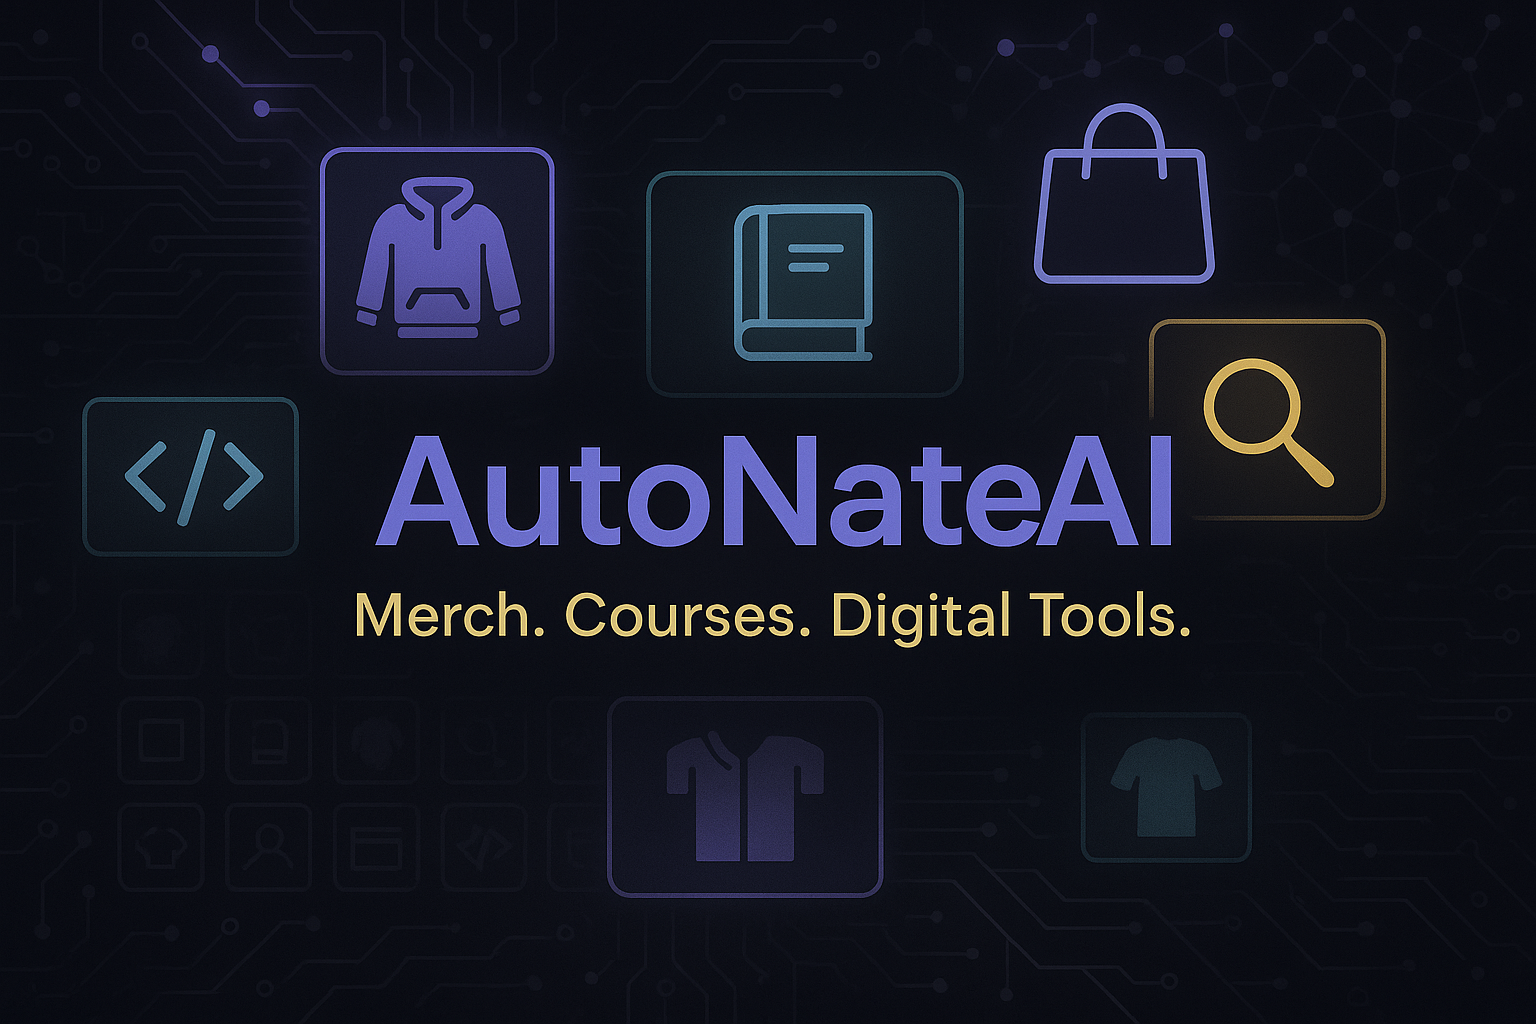
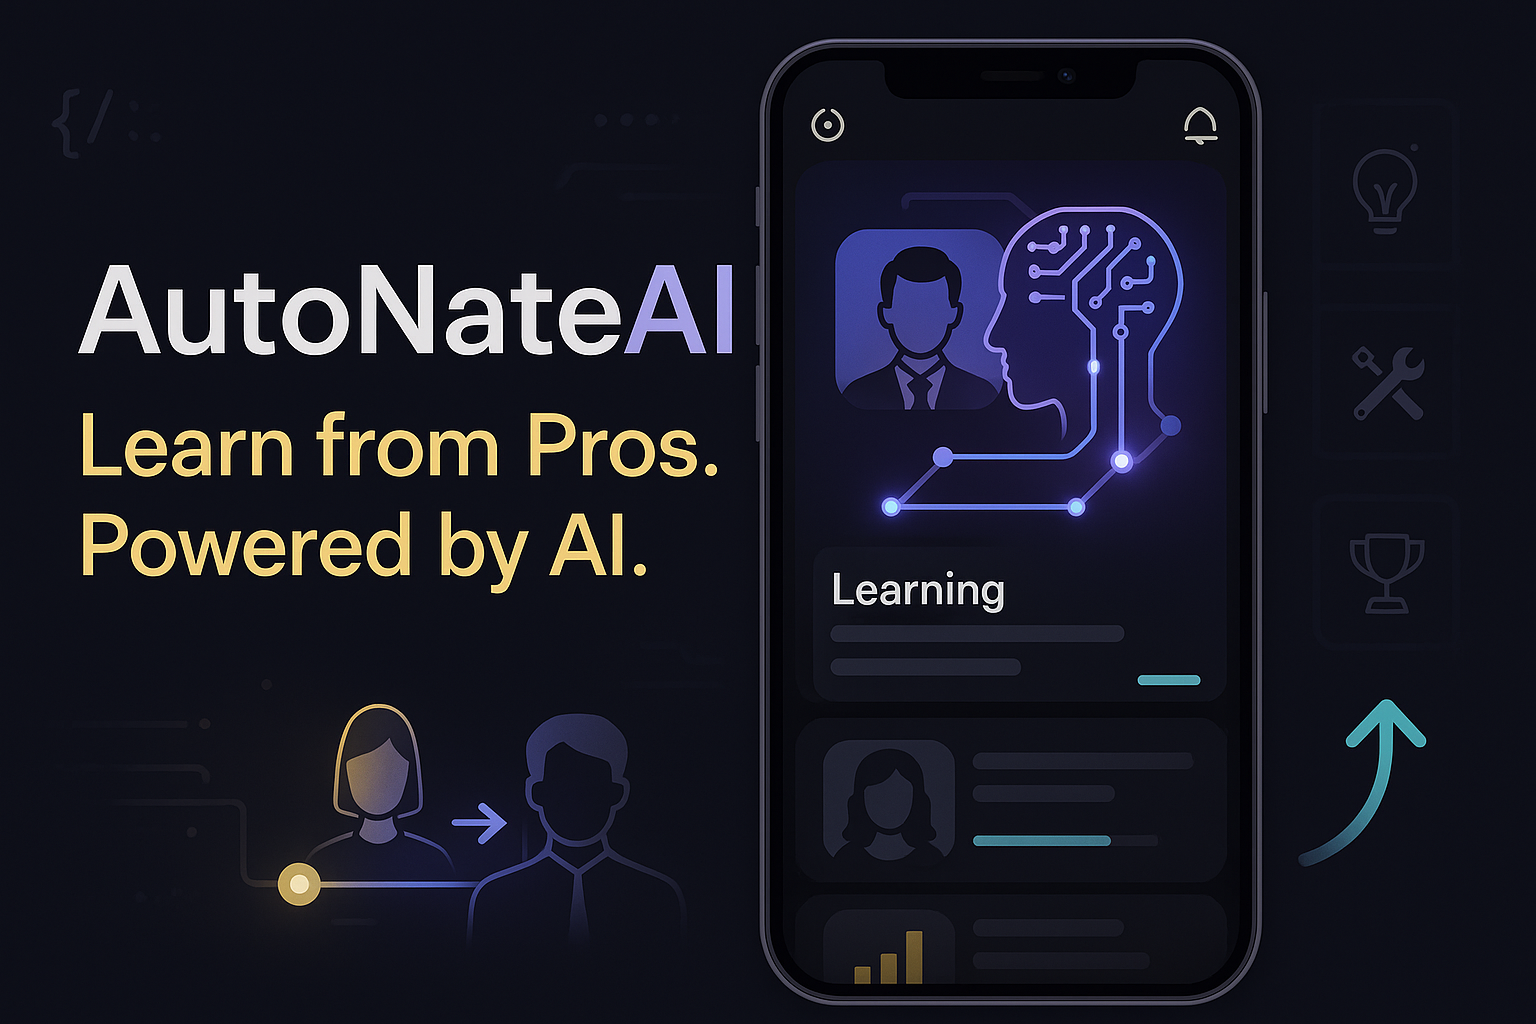
feat: update copy and OG image for Scroll Courses + AI-from-pros positioning
Rewrite landing page manifesto, hero, courses section, testimonial,
member perks, and meta tags to reflect Scroll Courses powered by AI
agents built from real LinkedIn professionals. Regenerate OG image
with feed/pro-to-AI concept. Update footer brand description.

diff --git a/courses/index.html b/courses/index.html
@@ -5,22 +5,22 @@
   <meta name="viewport" content="width=device-width, initial-scale=1.0">
 
   <!-- Primary Meta Tags -->
-  <title>AutoNateAI - Merch, Courses & Digital Tools for Builders</title>
-  <meta name="title" content="AutoNateAI - Merch, Courses & Digital Tools for Builders">
-  <meta name="description" content="Premium AI-inspired streetwear, developer courses, and starter packs. Engineer your future. Wear the code. We Bot dat life.">
+  <title>AutoNateAI - Digital Tools, Scroll Courses & Tech Gear</title>
+  <meta name="title" content="AutoNateAI - Digital Tools, Scroll Courses & Tech Gear">
+  <meta name="description" content="Your digital tech shop. Scroll Courses powered by AI agents built from real LinkedIn professionals. Digital tools and tech gear for builders. We Bot dat life.">
 
   <!-- Open Graph / Facebook -->
   <meta property="og:type" content="website">
   <meta property="og:url" content="https://autonateai.com/">
-  <meta property="og:title" content="AutoNateAI - Merch, Courses & Digital Tools for Builders">
-  <meta property="og:description" content="Premium AI-inspired streetwear, developer courses, and starter packs for builders and innovators.">
+  <meta property="og:title" content="AutoNateAI - Digital Tools, Scroll Courses & Tech Gear">
+  <meta property="og:description" content="Scroll Courses powered by real pros. AI agents, digital tools, and tech gear for builders.">
   <meta property="og:image" content="assets/og-homepage.png">
 
   <!-- Twitter -->
   <meta property="twitter:card" content="summary_large_image">
   <meta property="twitter:url" content="https://autonateai.com/">
-  <meta property="twitter:title" content="AutoNateAI - Merch, Courses & Digital Tools for Builders">
-  <meta property="twitter:description" content="Premium AI-inspired streetwear, developer courses, and starter packs for builders and innovators.">
+  <meta property="twitter:title" content="AutoNateAI - Digital Tools, Scroll Courses & Tech Gear">
+  <meta property="twitter:description" content="Scroll Courses powered by real pros. AI agents, digital tools, and tech gear for builders.">
   <meta property="twitter:image" content="assets/og-homepage.png">
 
   <!-- Favicon -->
@@ -113,13 +113,13 @@
       </div>
       <div class="manifesto-glow"></div>
       <div class="manifesto-container">
-        <p class="manifesto-lead" data-i18n="shop.manifesto_lead">We Don't Follow The Future.</p>
-        <h2 class="manifesto-headline" data-i18n="shop.manifesto_headline">We Build It.</h2>
+        <p class="manifesto-lead" data-i18n="shop.manifesto_lead">Learn by Scrolling. Build by Doing.</p>
+        <h2 class="manifesto-headline" data-i18n="shop.manifesto_headline">Your Digital Tech Shop.</h2>
         <div class="manifesto-body">
-          <p data-i18n="shop.manifesto_p1">AI isn't hype. It's power.</p>
-          <p data-i18n-html="shop.manifesto_p2">For the coders. The creators.<br>The women rewriting the rules.<br>The builders who stay up when others log off.</p>
-          <p data-i18n-html="shop.manifesto_p3">AutoNateAI is more than apparel.<br>It's a uniform for the next era.</p>
-          <p data-i18n-html="shop.manifesto_p4">You don't just wear it. <span class="manifesto-bold">You represent it.</span></p>
+          <p data-i18n="shop.manifesto_p1">Scroll Courses powered by real professionals.</p>
+          <p data-i18n-html="shop.manifesto_p2">AI agents built from LinkedIn pros who are too busy winning to teach.<br>Their knowledge. Their process. Their results.<br>Delivered to your feed.</p>
+          <p data-i18n-html="shop.manifesto_p3">This isn't another course platform.<br>It's how builders actually learn now.</p>
+          <p data-i18n-html="shop.manifesto_p4">Real expertise. AI-delivered. <span class="manifesto-bold">All in one scroll.</span></p>
         </div>
         <p class="manifesto-tagline" data-i18n="shop.manifesto_tagline">We Bot Dat Life.</p>
       </div>
@@ -135,10 +135,10 @@
       <div class="shop-hero-container">
         <div class="shop-hero-text">
           <h1 class="shop-hero-title">
-            <span data-i18n="shop.hero_line1">ENGINEER YOUR FUTURE.</span><br>
-            <span class="hero-accent" data-i18n="shop.hero_line2">WEAR THE CODE.</span>
+            <span data-i18n="shop.hero_line1">TOOLS. COURSES. GEAR.</span><br>
+            <span class="hero-accent" data-i18n="shop.hero_line2">BUILT FOR BUILDERS.</span>
           </h1>
-          <p class="shop-hero-subtitle" data-i18n="shop.hero_subtitle">Premium AI-inspired streetwear for builders and innovators.</p>
+          <p class="shop-hero-subtitle" data-i18n="shop.hero_subtitle">Scroll Courses built from real pros. Digital tools. Tech gear. Everything you need to level up.</p>
           <div class="shop-hero-ctas">
             <a href="#products" class="btn btn-primary btn-lg" data-i18n="shop.shop_now">SHOP NOW</a>
             <a href="#courses" class="btn btn-secondary btn-lg" data-i18n="shop.explore_collections">EXPLORE COLLECTIONS</a>
@@ -203,9 +203,9 @@
   <section class="courses-section" id="courses">
     <div class="section-container">
       <div class="section-header">
-        <span class="section-badge" data-i18n="shop.learn_build">LEARN &amp; BUILD</span>
-        <h2 class="section-title" data-i18n="shop.level_up">Level Up Your Skills</h2>
-        <p class="section-subtitle" data-i18n="shop.level_up_desc">From complete beginner to senior engineer. AI-augmented courses with real-world projects.</p>
+        <span class="section-badge" data-i18n="shop.learn_build">SCROLL COURSES</span>
+        <h2 class="section-title" data-i18n="shop.level_up">Learn by Scrolling</h2>
+        <p class="section-subtitle" data-i18n="shop.level_up_desc">AI agents modeled after real LinkedIn professionals generate the content. Their knowledge, their process, their results — delivered as short-form videos you scroll. Activities built in. Progress tracked automatically.</p>
       </div>
 
       <!-- Featured Courses Carousel -->
@@ -305,9 +305,9 @@
     <div class="brand-story-card">
       <h3 class="brand-story-title" data-i18n="shop.built_for">Built for Builders</h3>
       <ul class="brand-values-list">
-        <li><span class="check-icon">&#10003;</span> <span data-i18n="shop.designed_devs">Designed by Devs for Devs</span></li>
-        <li><span class="check-icon">&#10003;</span> <span data-i18n="shop.premium_fab">Premium, Sustainable Fabrics</span></li>
-        <li><span class="check-icon">&#10003;</span> <span data-i18n="shop.supports_tech">Supports the Tech Community</span></li>
+        <li><span class="check-icon">&#10003;</span> <span data-i18n="shop.designed_devs">Made by Builders, for Builders</span></li>
+        <li><span class="check-icon">&#10003;</span> <span data-i18n="shop.premium_fab">Premium Quality Gear &amp; Tools</span></li>
+        <li><span class="check-icon">&#10003;</span> <span data-i18n="shop.supports_tech">Powering the Next Gen of Tech</span></li>
       </ul>
       <a href="about.html" class="btn btn-secondary" data-i18n="shop.learn_more">Learn More</a>
     </div>
@@ -317,7 +317,7 @@
   <section class="social-proof-strip">
     <div class="social-proof-content">
       <div class="testimonial-stars">&#9733;&#9733;&#9733;&#9733;&#9733;</div>
-      <blockquote class="testimonial-quote" data-i18n="shop.testimonial_quote">"Finally, gear that speaks our language."</blockquote>
+      <blockquote class="testimonial-quote" data-i18n="shop.testimonial_quote">"It's like having a senior engineer teach you through your feed. I scrolled for 20 minutes and learned more than a 3-hour lecture."</blockquote>
       <cite class="testimonial-author" data-i18n="shop.testimonial_author">&mdash; Jay, Software Engineer</cite>
       <div class="proof-stats">
         <div class="proof-stat">
@@ -340,7 +340,7 @@
   <section class="community-gallery" id="lookbook">
     <div class="gallery-header">
       <h2 class="section-title" data-i18n="shop.gallery_title">#WeBotDatLife</h2>
-      <p class="section-subtitle" data-i18n="shop.community">The community repping AutoNateAI</p>
+      <p class="section-subtitle" data-i18n="shop.community">Builders repping AutoNateAI</p>
     </div>
     <div class="gallery-grid">
       <div class="gallery-item">
@@ -395,11 +395,11 @@
         <span class="section-badge" data-i18n="shop.membership">MEMBERSHIP</span>
         <h2 class="section-title" data-i18n="shop.members_more">AutoNateAI Members Get More</h2>
         <ul class="members-perks">
-          <li><span class="perk-icon">&#9889;</span> <span data-i18n="shop.early_access">Early access to limited drops</span></li>
-          <li><span class="perk-icon">&#128176;</span> <span data-i18n="shop.member_disc">Member-exclusive discounts</span></li>
-          <li><span class="perk-icon">&#128666;</span> <span data-i18n="shop.free_shipping">Free shipping on all orders</span></li>
-          <li><span class="perk-icon">&#127891;</span> <span data-i18n="shop.priority_enroll">Priority course enrollment</span></li>
-          <li><span class="perk-icon">&#128172;</span> <span data-i18n="shop.community_feed">Community feed access</span></li>
+          <li><span class="perk-icon">&#128200;</span> <span data-i18n="shop.early_access">AI-powered progress reports (daily, weekly, monthly)</span></li>
+          <li><span class="perk-icon">&#127891;</span> <span data-i18n="shop.member_disc">Unlimited Scroll Course access</span></li>
+          <li><span class="perk-icon">&#9889;</span> <span data-i18n="shop.free_shipping">Early access to new tools &amp; drops</span></li>
+          <li><span class="perk-icon">&#128172;</span> <span data-i18n="shop.priority_enroll">Community feeds &amp; practice groups</span></li>
+          <li><span class="perk-icon">&#128666;</span> <span data-i18n="shop.community_feed">Free shipping on all merch</span></li>
         </ul>
         <div class="members-ctas" id="members-ctas">
           <a href="auth/register.html" class="btn btn-primary" data-i18n="shop.join_free">Join Free</a>
@@ -417,8 +417,8 @@
 
   <!-- ==================== FINAL CTA ==================== -->
   <section class="cta-section">
-    <h2 class="cta-title" data-i18n="shop.gear_up">Gear Up. Stand Out. Build Different.</h2>
-    <p class="cta-subtitle" data-i18n="shop.gear_up_desc">Join the community of builders repping AutoNateAI. New drops every month.</p>
+    <h2 class="cta-title" data-i18n="shop.gear_up">Scroll. Learn. Build. Rep.</h2>
+    <p class="cta-subtitle" data-i18n="shop.gear_up_desc">Tools that work. Courses that adapt. Gear that hits. Welcome to the shop.</p>
     <div class="cta-buttons">
       <a href="#products" class="btn btn-primary" data-i18n="shop.shop_all_products">Shop All Products <span>&#8594;</span></a>
       <a href="dashboard/feed.html" class="btn btn-secondary" data-i18n="shop.join_community">Join the Community</a>

diff --git a/scripts/generate-og-image.js b/scripts/generate-og-image.js
@@ -53,7 +53,7 @@ const CONFIG = {
   quality: 'high',
 
   // Prompt for the image
-  prompt: `Create a stunning social media preview image for "AutoNateAI" - a digital tech shop and marketplace for developers and builders.
+  prompt: `Create a stunning social media preview image for "AutoNateAI" - a digital tech shop where AI agents built from real LinkedIn professionals power Scroll Courses.
 
 Design specifications:
 - Dark background color: #0a0a0f (nearly black)
@@ -63,24 +63,25 @@ Design specifications:
 
 Visual elements to include:
 - The text "AutoNateAI" prominently displayed in a modern, clean sans-serif font
-- Subtitle text: "Merch. Courses. Digital Tools."
-- A marketplace/storefront aesthetic with floating product cards or tiles
-- Product category icons: t-shirt/hoodie silhouettes, course/book icons, search tool icons, code brackets
-- Shopping cart or bag motif subtly integrated
-- Grid layout of product thumbnails fading into the background
-- Tech/developer aesthetic — circuit board patterns, code snippets, AI neural network nodes
+- Subtitle text: "Learn from Pros. Powered by AI."
+- A short-form video feed interface (like TikTok/Reels) as a central visual motif — showing a phone or feed with scrollable content cards
+- LinkedIn-style professional silhouettes or avatars transforming into AI agent avatars via glowing neural connections
+- Scroll/swipe gesture visual — an upward arrow or finger-swipe trail
+- Small icons representing the 3 feeds: a lightbulb (theory), a wrench/hammer (practice), a trophy (results)
+- Subtle code brackets and tech patterns in the background
+- A progress bar or data visualization element representing tracked learning
 
 Style:
-- Modern, sleek, professional marketplace feel
-- Digital storefront meets developer culture
+- Modern, sleek, professional but approachable
+- Short-form content meets professional development
 - High contrast with the dark background
 - Glowing/luminous effects on accent colors
-- Conveys variety, quality, and developer identity
+- Conveys innovation, real expertise being delivered through AI, and a new way to learn
 
-The image should convey: "Your one-stop digital tech shop — merch, courses, and tools for builders."
+The image should convey: "AI agents built from real professionals teach you through a scrollable feed. Learn by scrolling."
 
 Dimensions: 1200x630 pixels (social media preview optimal size)
-Only text allowed: "AutoNateAI" and "Merch. Courses. Digital Tools."`
+Only text allowed: "AutoNateAI" and "Learn from Pros. Powered by AI."`
 };
 
 // ============================================================================

diff --git a/courses/shared/js/footer.js b/courses/shared/js/footer.js
@@ -19,7 +19,7 @@ const FooterComponent = {
               <span>AutoNateAI</span>
             </div>
             <p class="footer-desc">
-              We provide the tools and knowledge to efficiently source 6-figure opportunities.
+              Scroll Courses powered by AI agents built from real professionals. Plus digital tools and tech gear for builders.
             </p>
           </div>
           
